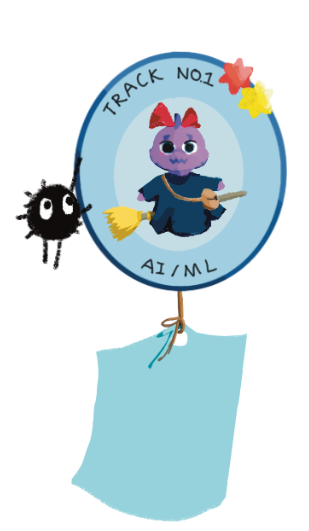
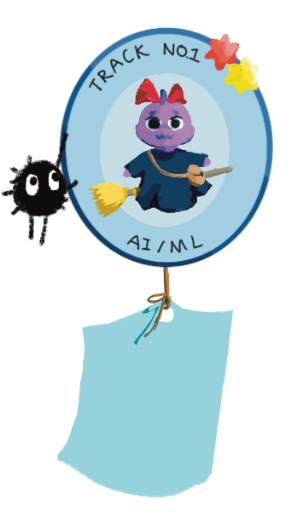
track resizing for smartphones and medium devices

Changed region(s): [[0.0, 0.0309, 0.949, 0.9884], [0.7653, 0.2471, 0.7959, 0.278]]

diff --git a/css/main.css b/css/main.css
@@ -826,34 +826,45 @@ a, button, i{
   .counter{
     margin: 0;
   }
-/* 
-  uncomment when ready to add
+
+  /*media queries for tracks section */
+
+
+  /* TRACKS: 1 column, stacked vertically */
   .section#tracks .container {
-    grid-template-columns: repeat(2, 1fr);
+    grid-template-columns: 1fr;   /* 1 column */
+    gap: 2rem;                    /* vertical spacing */
+    justify-items: center;
+    justify-content: center;
   }
 
   .section#tracks .track {
-    width: 140px;
-    margin: 5px;
-  }
-
-  .section#tracks #choose-your-char{
-    font-size: 15px;
+    width: 100%;
+    max-width: 260px;             /* keeps images reasonable */
   }
 
   .section#tracks .image-container {
-    width: 140px;
-    height: 140px;
+    width: 100%;
+    aspect-ratio: 1 / 1;          /* keeps square images */
+  }
+
+  .section#tracks #choose-your-char {
+    font-size: 18px;
+    text-align: center;
   }
 
   .section#tracks h3 {
-    font-size: 1rem;
+    font-size: 1.1rem;
+    text-align: center;
   }
 
   .section#tracks p {
-    font-size: 0.7rem;
-  } */
-/* 
+    font-size: 0.85rem;
+    text-align: center;
+  }
+
+/*smartphone media tracks done*/
+
   .section#schedule{
     margin: 0;
     margin-top: 20vh;
@@ -1032,6 +1043,15 @@ a, button, i{
     font-size: 5rem;
   }
 
+  /*tracks resizing*/
+  .section#tracks .container {
+    grid-template-columns: repeat(2, 1fr);  /* 2 column */
+    gap: 3rem;                    /* vertical spacing */
+    justify-items: center;
+    justify-content: center;
+  }
+
+  /*faq resizing*/
   .faq-content {
     margin-top: 500px;
   }

diff --git a/index.html b/index.html
@@ -172,12 +172,7 @@
             </div>
         </div>
     </section>
-<<<<<<< HEAD
 
-
-=======
-    -->
->>>>>>> kavya
     <!--SPONSORS SECTION-->
     <section class="section" id="sponsors">
         <div class="sponsors-content">
